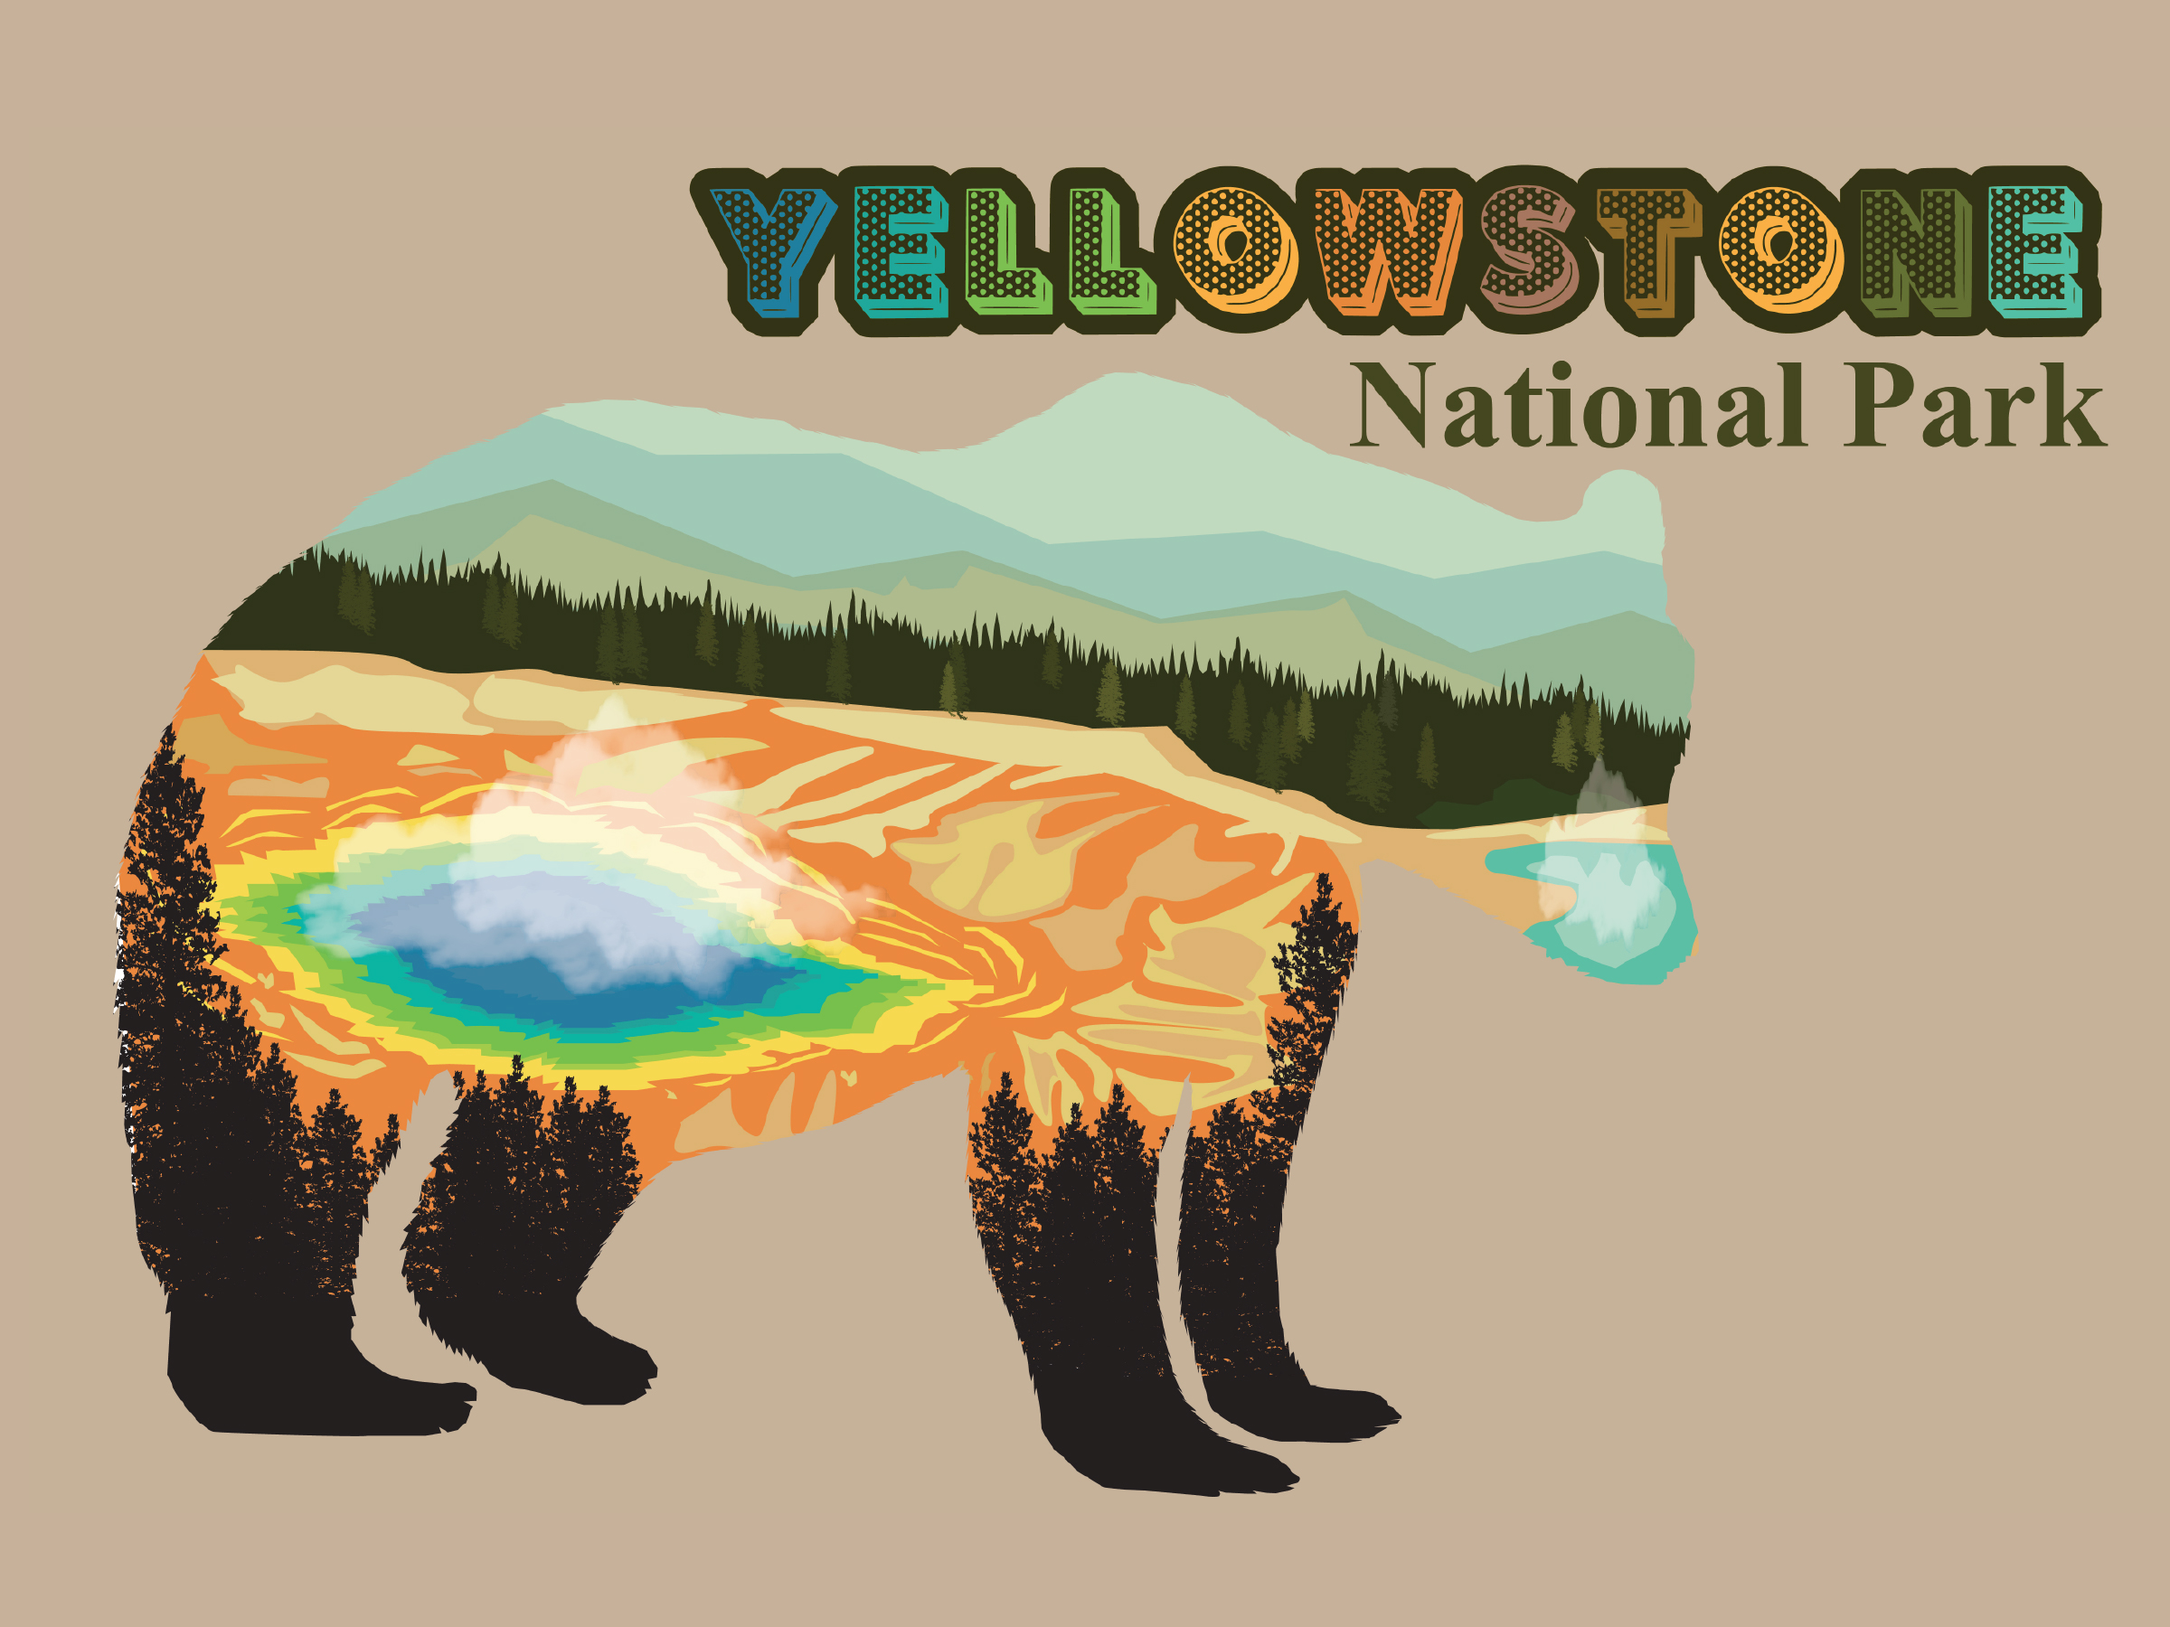
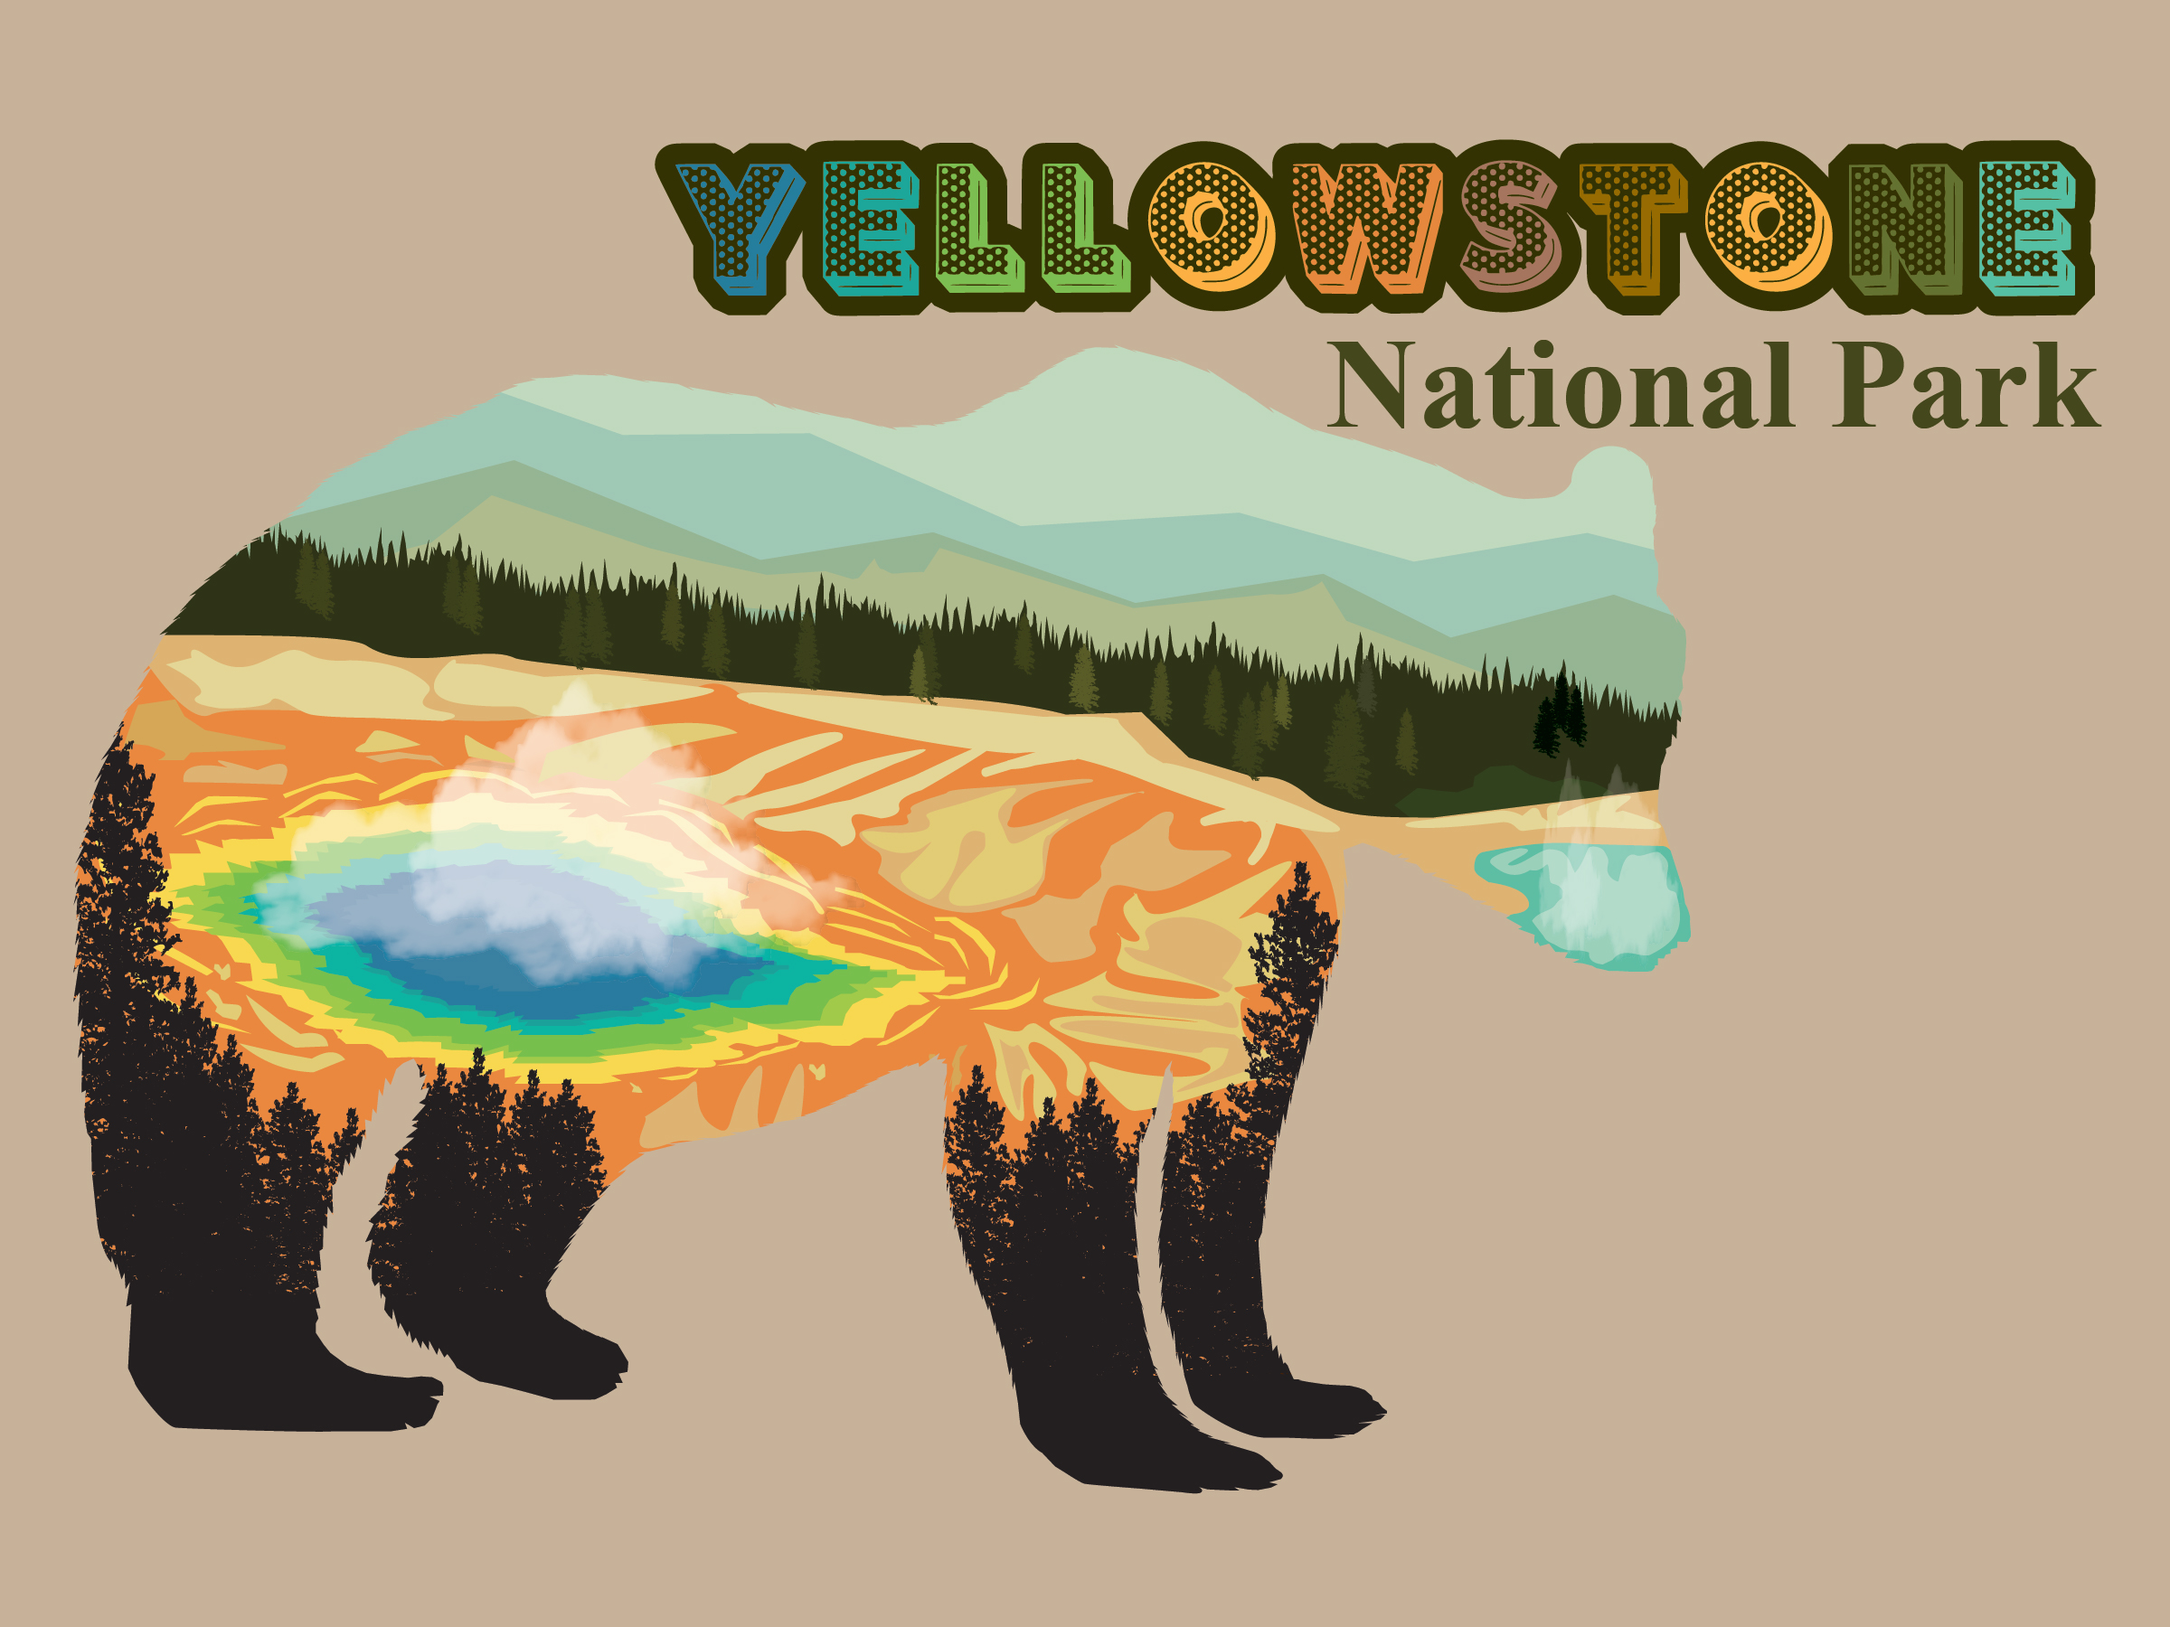
portfolio

Changed region(s): [[0.0312, 0.0622, 0.9688, 0.9022], [0.5625, 0.84, 0.6562, 0.9333], [0.4688, 0.84, 0.5, 0.9022]]

diff --git a/MayPortfolio/nationalPark.html b/MayPortfolio/nationalPark.html
@@ -35,39 +35,23 @@
 							<!-- Content -->
 								<section>
 									<header class="main">
-										<h1>Bombora Bay Water Park Branding & Tri-Fold Brochure</h1>
+										<h1>National Park - Poster </h1>
 									</header>
 
-									<span class="image main"><img src="images/brochure/brochure.jpg" alt="" /></span>
+									<span class="image main"><img src="images/NationalPark/nationalPark.jpg" alt="nationalPark" /></span>
                                     <h2> Design & Execution Highlights </h2>
-									<ul>
-                                        <li> 
-                                            <b>Visual Identity & Composition: </b> Developed a refreshing, summer-inspired color palette utilizing tropical teals, sunny yellows, and coral accents. Dynamic wave motifs and playful custom illustrations (such as life rings, water slides, and beach balls) are woven throughout the background to create an immersive, aquatic atmosphere.
-                                        </li>
-                                        <li>
-                                            <b>Typography & Information Hierarchy: </b> Paired a bold, energetic display typeface for the primary branding with clean, highly legible sans-serif fonts for the body copy. The internal panels utilize deliberate column structures, custom bulleting, and contrasting color blocks to separate ride listings, dining options, park rules, and ticketing tiers.
-                                        </li>
-                                        <li>
-                                            <b> Layout & Editorial Balance: </b>
-                                            <ul>
-                                                <li>
-                                                    <b><i> Exterior Panels: </i> </b> Designed a striking cover panel featuring a large life-ring focal point and essential park details, alongside structured, easy-to-read directional text and maps for regional visitors.
-                                                </li>
-                                                <li>
-                                                    <b> <i> Interior Panels: </i></b> Configured a sprawling, continuous interior layout that guides the reader naturally from a comprehensive list of attractions to preparation tips ("What to Bring") and ticketing information, ensuring a seamless user experience.
-                                                </li>
-                                            </ul>
-                                        </li>
-                                    </ul>
+									<p>
+                                        This illustrative piece captures the iconic essence of Yellowstone National Park through a double-exposure design technique. By blending a silhouette of a grizzly bear with the vibrant, geothermal colors of the Grand Prismatic Spring and the rugged mountainous landscape, the design evokes a sense of wild exploration. Created using Adobe Creative Suite, this project emphasizes my ability to merge complex imagery into a cohesive, balanced visual narrative.
+                                    </p>
+                                    <span class="image main"> <img src="images/NationalPark/nationalpark_Sign.png" alt="sign" /> </span>
+
+                                    <span class="image main"> <img src="images/NationalPark/nationalPark_bottle.png" alt="bottle" /> </span>
 									
 									<hr class="major" />
                                     <div class="box">
 										<p style="text-align: center; margin-bottom: 0;">
 											<strong>Tools & Skills Applied:</strong> &nbsp;&nbsp;
 											<code>Adobe Illustrator</code> &nbsp;&bull;&nbsp; 
-											<code>Adobe Photoshop</code> &nbsp;&bull;&nbsp; 
-											<code>Adobe InDesign</code> &nbsp;&bull;&nbsp; 
-											<code>Print Production</code> &nbsp;&bull;&nbsp; 
 											<code>Typography</code>
 										</p>
 									</div>
@@ -97,7 +81,7 @@
 										<li><a href="UI.html">UI/UX & Web design</a></li>
 										<li><a href="visualidentity.html" class="active">Branding & Visual Identity</a></li>
 
-										<li><a href="illustrations.html">illustrations</a></li>
+										<li><a href="illustrations.html" class="active"></a>Illustrations</li>
 									</ul>
 								</nav>
 

diff --git a/MayPortfolio/visualidentity.html b/MayPortfolio/visualidentity.html
@@ -39,8 +39,7 @@
 									<h2>Brand Deliverables</h2>
 									<div class="posts">
 										<article>
-											<span class="image fit"><img src="images/Restaurant/Logo-01.jpg" alt="Brand Mark and Logo Design" /></span>
-                                            <span class="image fit"><img src="images/Restaurant/Logo-02.jpg" alt="Brand Mark and Logo Design" /></span>
+											<span class="image fit"><img src="images/Restaurant/logo.jpg" alt="Brand Mark and Logo Design" /></span>
 											<h3>01 / Brand Mark & Logo Design</h3>
 											<p>The Moulin Rouge logo blends classic elegance with a distinct sense of place. It features a custom vector illustration of a traditional red windmill, serving as a powerful visual anchor that represents the brand's name and heritage. The typography pairs a sophisticated, high-contrast serif font for "MOULIN ROUGE" with a clean sans-serif for "Café-Restaurant." A refined color palette of deep charcoal and rich crimson red creates a premium look, ensuring strong brand recognition across print, digital, and environmental applications.</p>
 										</article>
@@ -84,13 +83,18 @@
 											<p>A high-contrast marketing poster mockup styled inside a sleek gallery frame to demonstrate real-world physical scale and presence.</p>
 										</article>
 										<article>
+											<span class="image fit"><img src="images/Restaurant/flyer.jpg" alt="flyer" /></span>
+											<h3>06 / Moulin Rouge Promotional Flyer</h3>
+											<p>This promotional flyer was designed to evoke a sense of Parisian elegance and fine dining. The design strategy utilized a clean, asymmetric layout to balance high-quality culinary photography with strong, readable typography. By blending classic serif fonts with an open, airy composition, I created a visual hierarchy that guides the viewer from the brand's aesthetic appeal directly to the call-to-action, effectively balancing visual allure with essential business information.</p>
+										</article>
+										<article>
 											<span class="image fit"><img src="images/Restaurant/wallSign_MoulinRouge.jpg" alt="wallign" /></span>
-											<h3>06 / Signage Design & Brand Placement</h3>
+											<h3>07 / Signage Design & Brand Placement</h3>
 											<p>The brand identity is integrated into the physical space by placing the iconic red windmill logo to the left of the text, creating a strong visual anchor. Carved into horizontal, weather-treated wooden planks, the logo and elegant typography use a high-contrast palette of charcoal and rich crimson to ensure maximum readability against the stone backdrop. This strategic scaling and placement seamlessly blend the restaurant's rustic aesthetic with effective, real-world visibility</p>
 										</article>
 										<article>
 											<span class="image fit"><img src="images/Restaurant/MoulinRougeBag.jpg" alt="Environmental Poster Layout" /></span>
-											<h3>07 /Packaging & Delivery Identity</h3>
+											<h3>08 /Packaging & Delivery Identity</h3>
 											<p>This mockup showcases the brand identity applied to a professional insulated delivery bag, takeout box, and utensil sleeve. The iconic red windmill logo and elegant typography are scaled consistently across each item, using a bold crimson and black palette. This demonstrates how a unified visual system maintains a premium, cohesive look across different functional packaging materials</p>
 										</article>
 									</div>
@@ -130,6 +134,9 @@
 									<li><a href="product_ad.html">Campaigns & Advertising</a></li>
 									<li><a href="UI.html">UI/UX & Web design</a></li>
 									<li><a href="visualidentity.html" class="active">Branding & Visual Identity</a></li>
+
+									<li><a href="illustrations.html">Illustrations</a></li>
+									
 								</ul>
 							</nav>
 

diff --git a/MayPortfolio/cerealbox.html b/MayPortfolio/cerealbox.html
@@ -34,9 +34,8 @@
 									<div class="posts">
 										
 										<article>
-											<span class="image fit"><img src="images/cerealbox/CerealBox.jpg" alt="cerealbox" /></span>
+											<span class="image fit"><img src="images/cerealbox/cheeriospackage.jpg" alt="cerealbox" /></span>
 
-											<span class="image fit"><img src="images/cerealbox/2boxescereal.png" alt="boxes" /></span>
 											<h3>01/ Cheerios Seasonal Packaging</h3>
 											<p>This project involved the development of a cohesive, thematic packaging design for a limited-edition seasonal product. The goal was to maintain brand recognition while introducing festive, winter-inspired elements. I managed the full lifecycle from flat-die template layout to 3D visualization, ensuring that all technical requirements—such as nutritional panels, barcode placement, and industry-standard marketing copy—were seamlessly integrated into the final 3D production mockup.</p>
 										</article>
@@ -61,7 +60,7 @@
 											<strong>Tools & Skills Applied:</strong> &nbsp;&nbsp;
 											<code>Adobe Illustrator</code> &nbsp;&bull;&nbsp; 
 											<code>Adobe Photoshop</code> &nbsp;&bull;&nbsp; 
-											<code>Brand Strategy</code> &nbsp;&bull;&nbsp; 
+											<code>Packaging Design</code> &nbsp;&bull;&nbsp; 
 											<code>Print Production</code> &nbsp;&bull;&nbsp; 
 											<code>Typography</code>
 										</p>
@@ -89,6 +88,7 @@
 										<li><a href="product_ad.html">Campaigns & Advertising</a></li>
 										<li><a href="UI.html">UI/UX & Web design</a></li>
 										<li><a href="visualidentity.html" class="active">Branding & Visual Identity</a></li>
+										<li><a href="illustrations.html" class="active">Illustrations</a></li>
 									</ul>
 								</nav>
 

diff --git a/MayPortfolio/index.html b/MayPortfolio/index.html
@@ -130,11 +130,11 @@
 											</ul>
 										</article>
 										<article>
-											<a href="#" class="image"><img src="images/NationalPark/Nationalparkcover.jpg" alt="" /></a>
-											<h3>Amet varius aliquam</h3>
-											<p>Aenean ornare velit lacus, ac varius enim lorem ullamcorper dolore. Proin aliquam facilisis ante interdum. Sed nulla amet lorem feugiat tempus aliquam.</p>
+											<a href="nationalPark.html" class="image"><img src="images/NationalPark/Nationalparkcover.jpg" alt="" /></a>
+											<h3>Yellowstone National Park Branding Illustration</h3>
+											<p>A modern take on national park memorabilia. This poster utilizes double-exposure illustration to combine iconic Yellowstone imagery—the grizzly bear, pine forests, and thermal springs—into a single, striking composition. Designed with meticulous attention to detail in Adobe Illustrator and Photoshop to achieve professional-grade aesthetic impact.</p>
 											<ul class="actions">
-												<li><a href="#" class="button">More</a></li>
+												<li><a href="nationalPark.html" class="button">More</a></li>
 											</ul>
 										</article>
 									</div>
@@ -162,8 +162,8 @@
 										<li><a href="index.html">Homepage</a></li>
 										<li><a href="product_ad.html">Campaigns & Advertising</a></li>
 										<li><a href="UI.html">UI/UX & Web design</a></li>
-										
 										<li><a href="visualidentity.html">Branding & Visual Identity </a></li>
+										<li><a href="illustrations.html">Illustrations </a></li>
 									</ul>
 								</nav>
 

diff --git a/MayPortfolio/ArchiPostcard.html b/MayPortfolio/ArchiPostcard.html
@@ -79,6 +79,8 @@
 										<li><a href="product_ad.html">Campaigns & Advertising</a></li>
 										<li><a href="UI.html">UI/UX & Web design</a></li>
 										<li><a href="visualidentity.html" class="active">Branding & Visual Identity</a></li>
+										
+										<li><a href="illustrations.html">illustrations</a></li>
 									</ul>
 								</nav>
 

diff --git a/MayPortfolio/UI.html b/MayPortfolio/UI.html
@@ -105,6 +105,7 @@
 										<li><a href="product_ad.html">Campaigns & Advertising</a></li>
 										<li><a href="UI.html">UI/UX & Web design</a></li>
 										<li><a href="visualidentity.html" class="active">Branding & Visual Identity</a></li>
+										<li><a href="illustrations.html">illustrations</a></li>
 									</ul>
 								</nav>
 

diff --git a/MayPortfolio/product_ad.html b/MayPortfolio/product_ad.html
@@ -98,6 +98,8 @@
 										<li><a href="product_ad.html">Campaigns & Advertising</a></li>
 										<li><a href="UI.html">UI/UX & Web design</a></li>
 										<li><a href="visualidentity.html" class="active">Branding & Visual Identity</a></li>
+
+										<li><a href="illustrations.html">illustrations</a></li>
 									</ul>
 								</nav>
 
